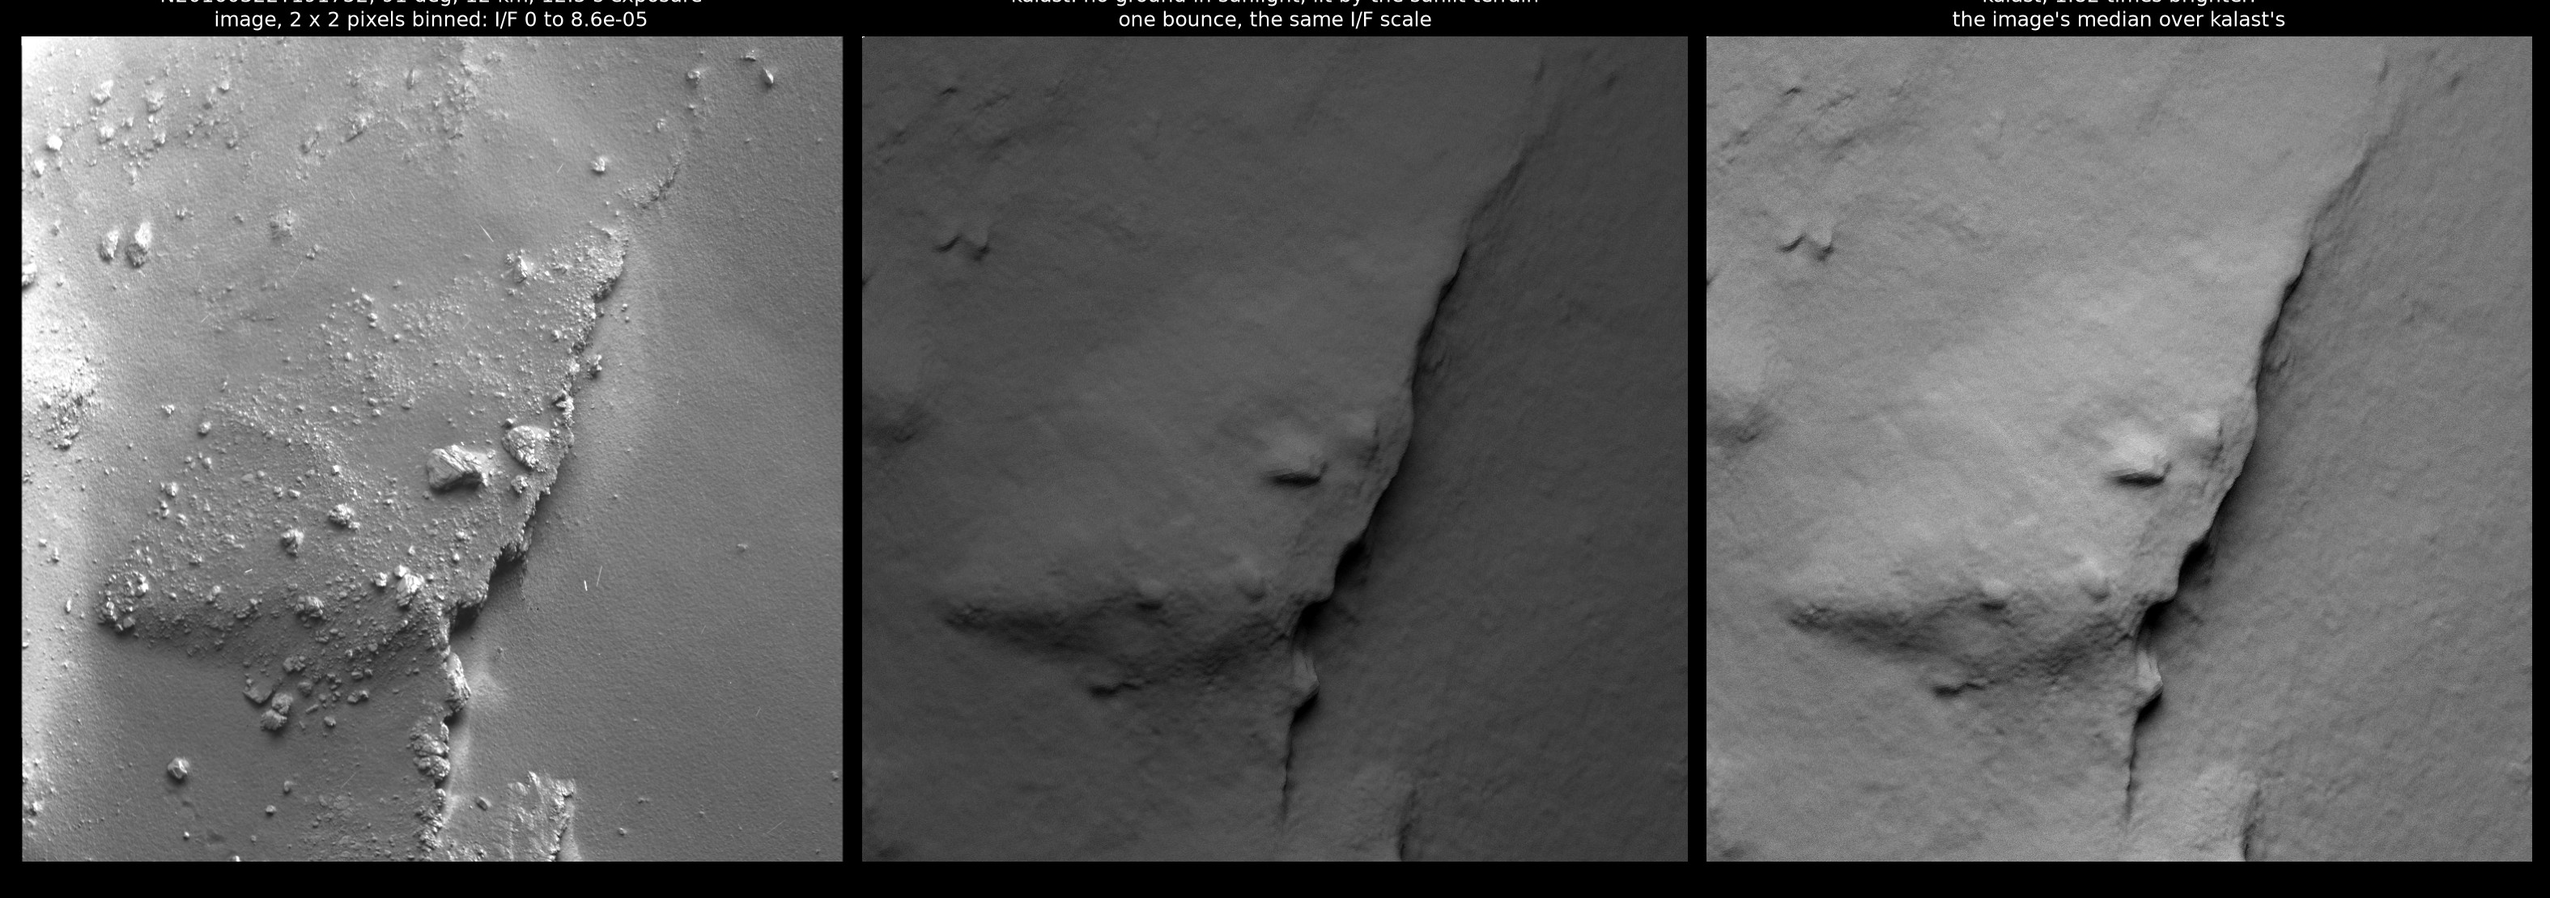
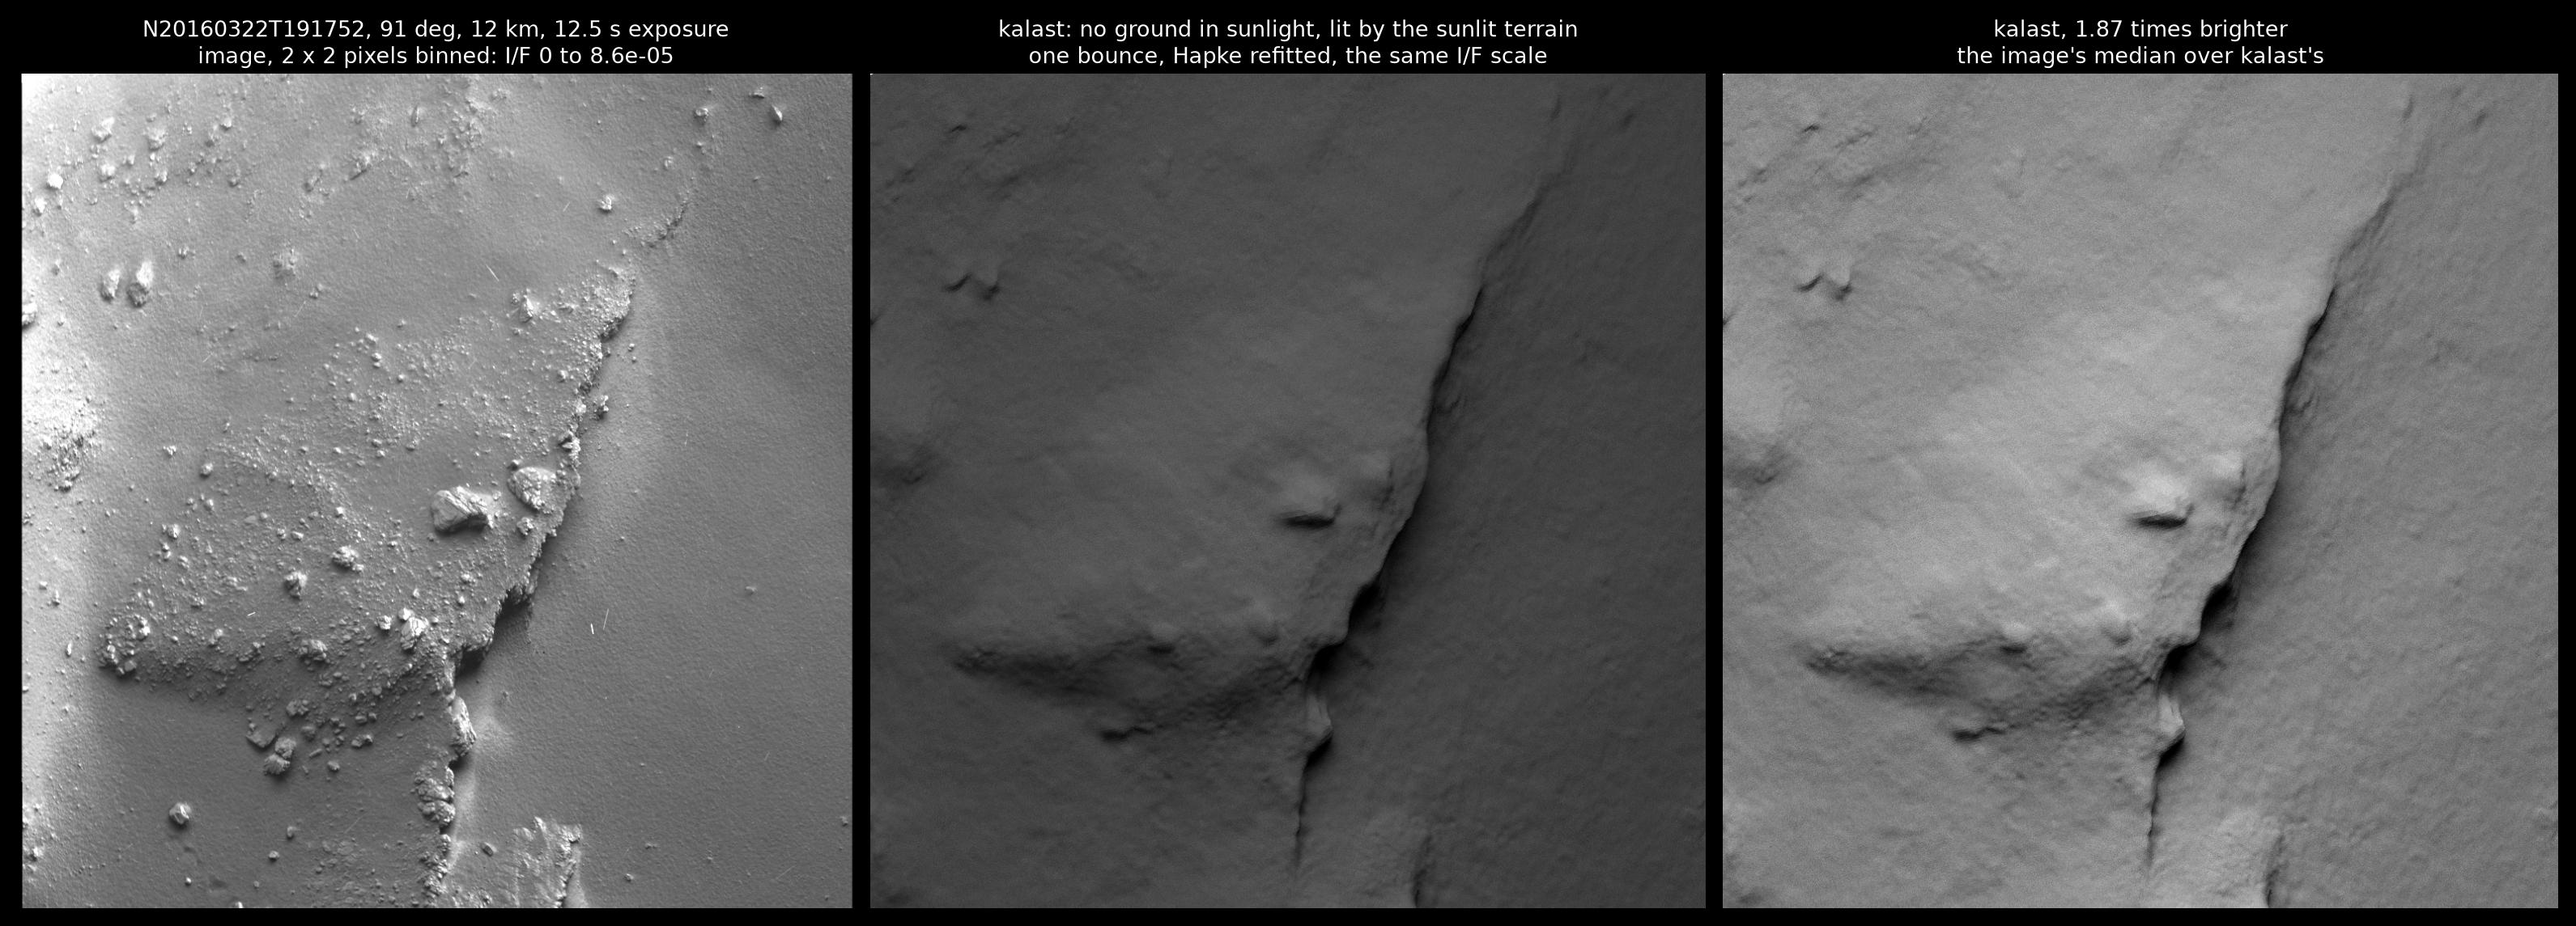
app.step() waits out a first frame busy past five seconds -- SHAP7's 44M facets loading ended the loop at once; 67P note: the law and bounces of each figure said, the comet-shine figure's titles in the frame

diff --git a/src/app/mod.rs b/src/app/mod.rs
@@ -1384,16 +1384,21 @@ impl App {
         // cannot configure its surface is a real failure, not a slow frame.
         // Five seconds without a turn of the loop, then: a frame drawn in
         // bands, or waiting for a callback on the scripts' thread, turns it
-        // all along, and may take longer than that.
+        // all along, and may take longer than that. Nor a pump that was
+        // busy: the first frame of a mesh of 44M facets -- its upload, its
+        // rays' structures, the pipelines compiled after a build -- took
+        // longer than five seconds inside one pump, and the loop was given
+        // up with nothing wrong.
         let mut deadline = std::time::Instant::now() + std::time::Duration::from_secs(5);
         let mut turns = self.turns;
         while self.shared.borrow().running && !self.frame_drawn {
+            let pumped = std::time::Instant::now();
             if let winit::platform::pump_events::PumpStatus::Exit(_) =
                 ev.pump_app_events(Some(std::time::Duration::ZERO), self)
             {
                 self.shared.borrow_mut().running = false;
             }
-            if self.turns != turns {
+            if self.turns != turns || pumped.elapsed() > std::time::Duration::from_millis(250) {
                 turns = self.turns;
                 deadline = std::time::Instant::now() + std::time::Duration::from_secs(5);
             }

diff --git a/CHANGELOG.md b/CHANGELOG.md
@@ -53,6 +53,7 @@ released, and the gate refuses the tag until it has.
 - A reference image goes on summing when `light.exposure` or `shading.srgb_mode` changes, which now only change how it is shown, done or not: it began again from its first sample. Nor do they change where it stops: its error is a share of the image's brightest value, where it was in the image's values as shown, and the same image stopped sooner the lower its exposure. With `shading.gamma` set, `srgb_mode` still begins it again in the shaded mode: there it changes what is summed.
 - `config.response` draws the image as a camera records it: its point spread -- a Gaussian core and up to two exponential halos -- and a smear along a line, the image's motion over the exposure, applied to the image's floats by an FFT on the GPU, before the HUD and the axes. The image shown, exported and read (`sim.reference_image()`) goes through it; a reference image's sum carries on when it is turned on, off or changed. Its parameters are those of `examples/phobos_shadows_fit/hrsc.py`'s response, which it reproduces to a millionth: the HRSC SRC's, fitted to its images of Phobos, are in `examples/phobos_shadows_fit/simple.py`. 27 ms a frame at 1008 x 1018 on an M1 Pro; without a reference the image is then drawn single-sampled, the response smoothing its edges.
 - `shadows.ray_points` traces a pixel's shadow from 4, 8 or 16 points of it with `shadows.method = "rays"`, rather than its centre alone: shadows narrower than a pixel, which came out as dotted lines -- a groove's under a low Sun -- come out grey, as the reference draws them. 8 and 16 trace four points first and the rest only near a shadow's edge. 1 by default, as before.
+- A script's `app.step()` no longer gives up when its first frame takes more than five seconds -- a mesh of 44M facets uploaded and its rays' structures built, or the shaders compiled after an update: "step() saw no frame in 5 s" ended the script's loop at once.
 - Updates: `app.config.update_betas`, in the app tab and remembered, offers betas too -- the pre-release of the next version -- beside the releases. The app tab's Updates section lists every version GitHub has, betas among them, with their notes, and installs the one chosen in place of this one: a newer one, a beta, or an older one, going back. From a terminal: `kalast --update --beta`, `kalast --update 0.5.12`, and `kalast --versions` to list them.
 - `config.stretch` shows the image's values as SAO DS9 scales an image, for faint and bright to show together: between two limits through a function, `scale` `"linear"`, `"log"`, `"pow"`, `"sqrt"`, `"squared"`, `"asinh"`, `"sinh"` or `"histequ"`, and `limits` `"user"` (`low`, `high`), `"minmax"`, `"percent"`, `"zscale"` or `"zmax"`. In the window and exported frames; `sim.reference_image()` keeps the values, and `sim.stretch_limits` reads the limits found. They are found from the image each frame on the GPU, zscale as astropy's to 10^-4, and a reference image's sum carries on when the stretch changes. In the UI app under Image, with the limits found. Off by default; on, a 1008 x 1018 frame of the maps took 2.8 to 3.7 ms on an M1 Pro, against 3.2 off, drawn single-sampled as with `config.response`.
 - The editor's toolbar shows how far a reference image has got, with a button that stops it where it is -- the mean so far the image -- and takes it on again, and once it has stopped, why: converged, at its limit, or by hand. The log says so too. `sim.stop_reference()`, `sim.resume_reference()` and `sim.reference_stopped` do the same from a script.

diff --git a/notes/2026-10-13_67p_osiris_shadows/README.md b/notes/2026-10-13_67p_osiris_shadows/README.md
@@ -17,6 +17,8 @@ says where the data comes from.
 
 ![The 57 images (left of each pair) and kalast's, SHAP7 in full and the refitted law, by phase angle](sheet.jpg)
 
+kalast's are drawn with the reference, SHAP7 in full and the Hapke law refitted to these images (`hapke-fit`, below), without bounced light: ground in shadow is black where the images show it lit by the terrain around it (see "The comet's light on its night side").
+
 ## The images: 57 of 15,570
 
 Every NAC image of the archive's stray-light-corrected reflectance sets
@@ -107,6 +109,8 @@ February 2016's at 50 km goes from 0.394 to 0.603, January 2016's from
 DSK left dark come out where the image has them.
 
 ![The image, DLR's DSK and SHAP7, SPICE's pointing, the image's I/F scale](shape_models.jpg)
+
+Drawn under Fornasier et al. (2015)'s Hapke law, the one published, without bounced light, all three as the square root of their I/F on the image's scale. Under that law kalast is 1.2-1.6 times too dark at 60-90 deg (below), which is the difference in brightness between the columns here; the refitted law takes it away. What it cannot take away is the texture: boulders, fractures and roughness at one to a few of these pixels, 0.35-1.4 m, at or below SHAP7's sampling of 1-1.5 m, which stereophotogrammetry smooths further; and the surface's own albedo, one value all over in kalast.
 
 **A correction.** November 2014's image at 93 deg and 31 km
 (N20141122T163853) had looked like a data problem: kalast drew a sliver of
@@ -210,8 +214,8 @@ ground reads I/F 4.4 x 10^-5 (2.9-6.8 x 10^-5, 5-95 %), at 20:47 nothing
 (6 x 10^-7, the noise). kalast with `bounces=1` -- each pixel's ground lit
 by whatever of the nucleus it sees in sunlight, through the law of both --
 draws the first frame's terrain as the image has it: the cliff, the plateau's
-edge, its shading; I/F 2.3 x 10^-5, the image 1.82 times brighter, r 0.47
-smoothed over 6 pixels. The second it draws black: no sunlit ground in sight.
+edge, its shading; I/F 2.3 x 10^-5, the image 1.87 times brighter (their
+medians), r 0.47 smoothed over 6 pixels. The second it draws black: no sunlit ground in sight.
 The first in 230 s at half resolution and 1024 samples a pixel. Left out of
 kalast's light: a second bounce, presumably a few percent on ground this dark;
 the coma's own light; the boulders, metres across, bright in the image and

diff --git a/notes/TIMELINE.md b/notes/TIMELINE.md
@@ -6189,3 +6189,13 @@ the app tab's Updates section lists every version GitHub has and installs
 the one chosen, older ones too; `kalast --update --beta`, `--update 0.5.12`,
 `--versions`. Write-up: `2026-10-14_updates_betas_and_versions.md`. Open: a
 downgrade run end to end from a bundle.
+
+## 2026-10-14 — `app.step()` waits out a slow first frame
+
+"step() saw no frame in 5 s; giving up on the loop" ended `main.py`'s loop
+over 67P's 57 images at once: SHAP7's 44M facets uploaded and their rays'
+structures built inside one pump of the event loop, past the five seconds the
+watchdog allowed for a frame. It had ended a test's first run after a build
+too, the shaders compiling. A pump that was busy for a quarter of a second
+now restarts the five seconds: the watchdog is for a loop turning with no
+frame, not one at work. `src/app/mod.rs`, `turn`.
